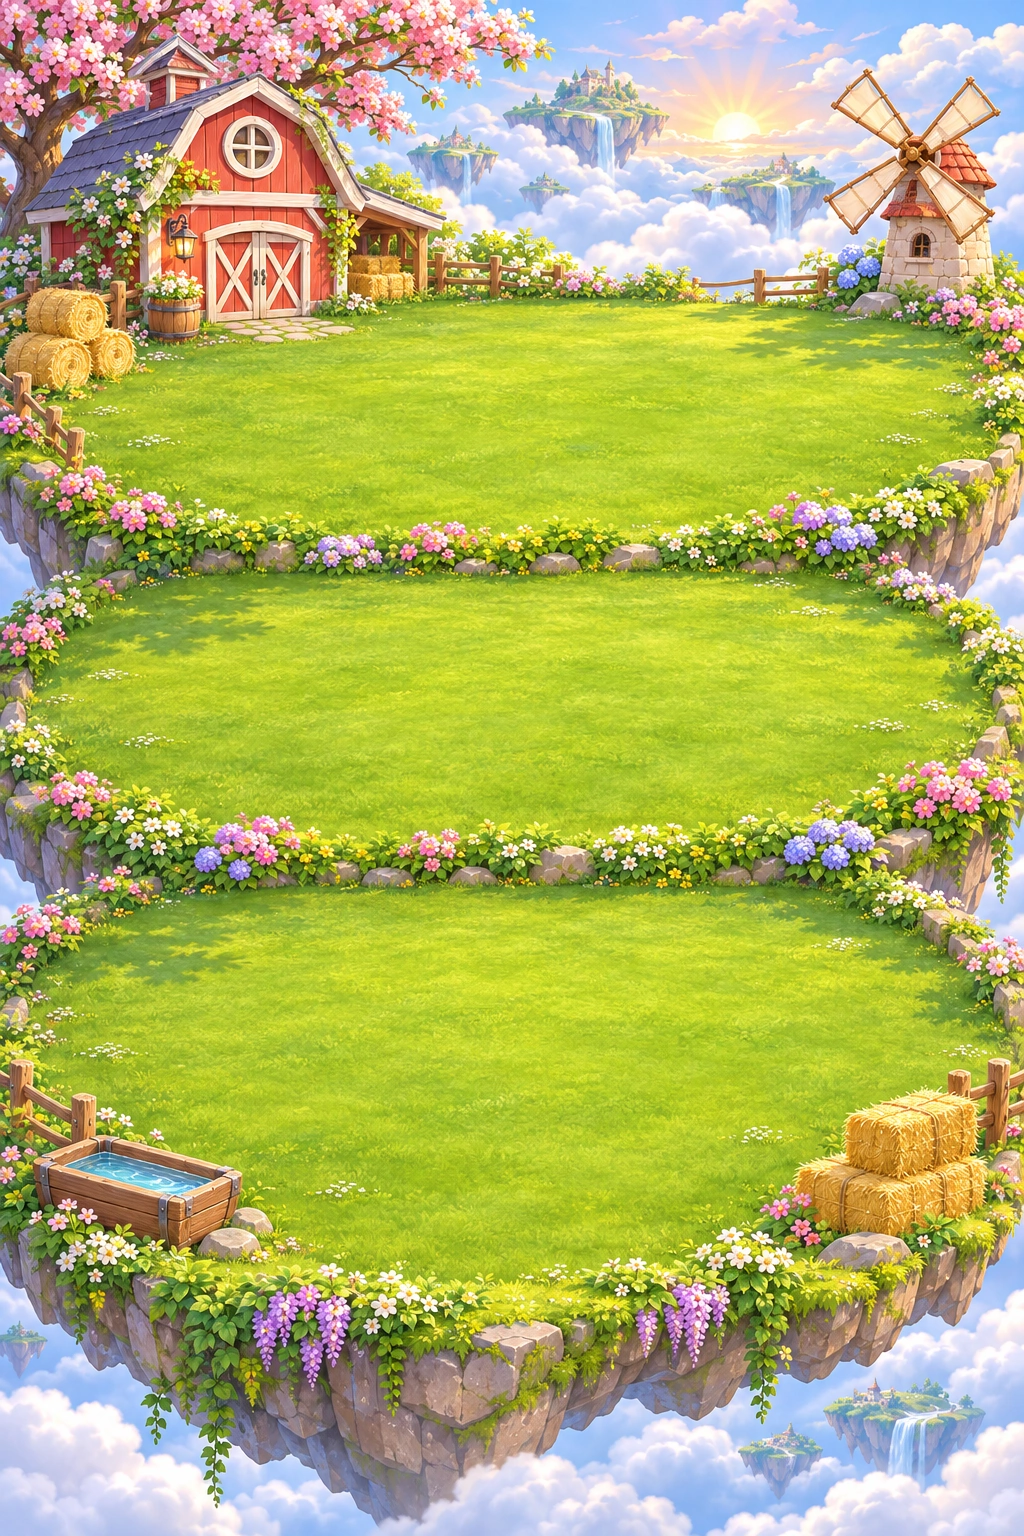
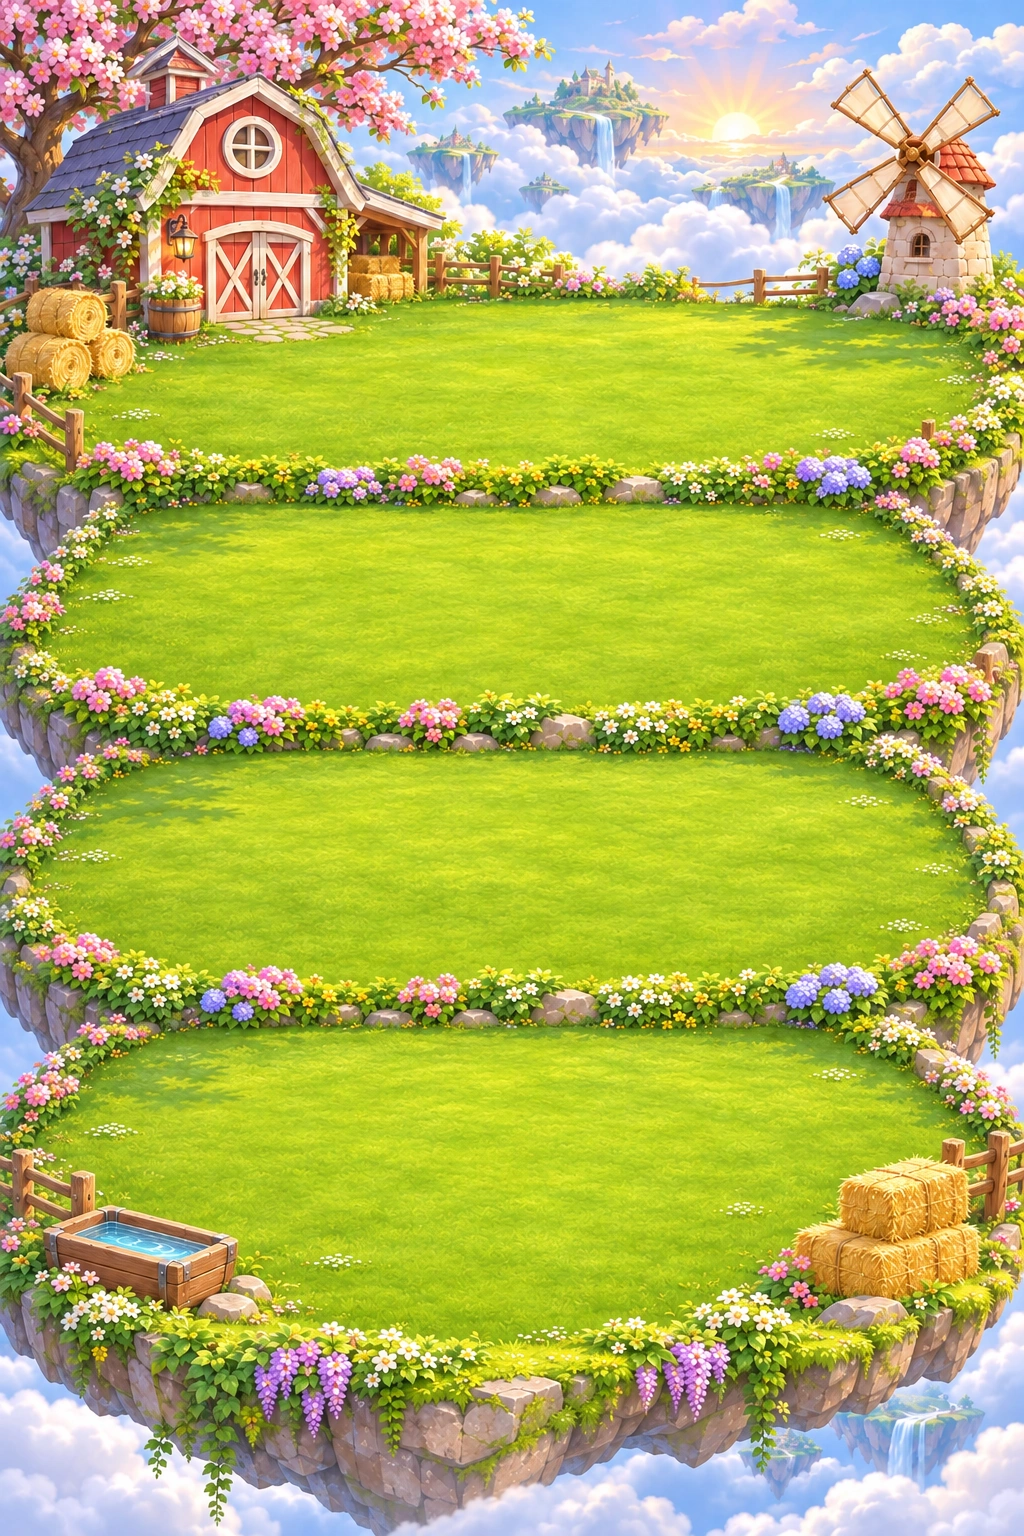
Farm: piglets after the sheep, eating corn, truffle baskets; four-terrace farm picture
Claude-Session: https://claude.ai/code/session_01LAihPK9NCrskSMr2X6nzoy

diff --git a/wings-of-wonder/src/garden.js b/wings-of-wonder/src/garden.js
@@ -18,6 +18,7 @@ const Garden = {
     { id: 'wheat', name: 'Wheat', min: 5, price: 10, give: { feed: { wheat: 3 } }, gexp: 1, lv: 1 },
     { id: 'carrot', name: 'Carrot', min: 20, price: 30, give: { feed: { carrot: 3 } }, gexp: 2, lv: 1 },
     { id: 'potato', name: 'Potato', min: 45, price: 50, give: { feed: { potato: 3 } }, gexp: 3, lv: 2 },
+    { id: 'corn', name: 'Corn', min: 90, price: 80, give: { feed: { corn: 3 } }, gexp: 5, lv: 3 },
     { id: 'sunpetal', name: 'Sunpetal', min: 30, price: 50, give: { gold: 180, xp: 20 }, gexp: 5 },
     { id: 'moonbell', name: 'Moonbell', min: 60, price: 90, give: { gold: 220, xp: 45, stone: 6 }, gexp: 8 },
     { id: 'dewleaf', name: 'Dewleaf', min: 120, price: 140, give: { xp: 80, stone: 15, items: { exp1: 1 } }, gexp: 12 },
@@ -29,7 +30,7 @@ const Garden = {
   ],
   // the shop shows a seed once the garden reaches its level (index 0..7 -> garden level)
   seedLevel: [1, 1, 2, 3, 4, 5, 6, 6],
-  feeds: [{ id: 'wheat', name: 'Wheat', eats: 'hen' }, { id: 'carrot', name: 'Carrot', eats: 'cow' }, { id: 'potato', name: 'Potato', eats: 'sheep' }],
+  feeds: [{ id: 'wheat', name: 'Wheat', eats: 'hen' }, { id: 'carrot', name: 'Carrot', eats: 'cow' }, { id: 'potato', name: 'Potato', eats: 'sheep' }, { id: 'corn', name: 'Corn', eats: 'pig' }],
   levelExp(lv) { return 60 * lv; },
   chests: [{ at: 5, id: 'chest1' }, { at: 15, id: 'chest2' }, { at: 30, id: 'chest2' }, { at: 60, id: 'chest3' }, { at: 100, id: 'chest3' }],
   // Farm (user: "a simple pretty farm where they open in turn: hens 1-6, then cows, then sheep"): animals are bought one
@@ -38,6 +39,7 @@ const Garden = {
     { k: 'hen', eat: 'wheat', name: 'Hen', good: 'Egg basket', min: 60, price: i => 500 * (i + 1), give: { gold: 80, xp: 15 }, gexp: 2 },
     { k: 'cow', eat: 'carrot', name: 'Cow', good: 'Fresh milk', min: 180, price: i => 4000 + 1500 * i, give: { gold: 260, stone: 6, xp: 30 }, gexp: 5 },
     { k: 'sheep', eat: 'potato', name: 'Sheep', good: 'Soft wool', min: 360, price: i => 9000 + 3000 * i, give: { gold: 420, essence: 3, xp: 50 }, gexp: 8 },
+    { k: 'pig', eat: 'corn', name: 'Piglet', good: 'Truffle basket', min: 480, price: i => 16000 + 4000 * i, give: { gold: 650, gem: 2, xp: 70 }, gexp: 12 },
   ],
   perKind: 6,
   nextAnimal(s) { const n = (Garden.state(s).farm || []).length; if (n >= Garden.animals.length * Garden.perKind) return null; const a = Garden.animals[Math.floor(n / Garden.perKind)], i = n % Garden.perKind; return { ...a, i, cost: a.price(i) }; },
@@ -205,11 +207,11 @@ function gdFarm(v, now) {
     const slots = Array.from({ length: Garden.perKind }, (_, i) => {
       const idx = base + i, f = v.farm[idx];
       if (f && Garden.hungry(f)) { const has = v.feed[a.eat] > 0; return `<button class="gd-ani hungry" onclick="gardenFeed(${idx})">${denPlain}<img class="gd-good" src="${gdArt('i-' + a.eat)}" alt=""><img class="gd-beast" src="${gdArt(a.k)}" alt="${a.name}" style="--d:${(idx * .37) % 2}s"><small class="gd-tag ${has ? 'feed' : 'need'}">${has ? 'Feed' : 'Hungry'}</small></button>`; }
-      if (f) { const ok = now >= f.at; return `<button class="gd-ani ${ok ? 'ready' : ''}" onclick="gardenCollect(${idx})">${denPlain}<img class="gd-beast" src="${gdArt(a.k)}" alt="${a.name}" style="--d:${(idx * .37) % 2}s">${ok ? `<img class="gd-good" src="${gdArt(a.k === 'hen' ? 'egg' : a.k === 'cow' ? 'milk' : 'wool')}" alt="">` : `<small class="gd-tag" data-farm="${idx}">${gdClock(f.at - now)}</small>`}</button>`; }
+      if (f) { const ok = now >= f.at; return `<button class="gd-ani ${ok ? 'ready' : ''}" onclick="gardenCollect(${idx})">${denPlain}<img class="gd-beast" src="${gdArt(a.k)}" alt="${a.name}" style="--d:${(idx * .37) % 2}s">${ok ? `<img class="gd-good" src="${gdArt({ hen: 'egg', cow: 'milk', sheep: 'wool', pig: 'truffle' }[a.k])}" alt="">` : `<small class="gd-tag" data-farm="${idx}">${gdClock(f.at - now)}</small>`}</button>`; }
       if (next && idx === v.farm.length) return `<button class="gd-ani buy" onclick="gardenBuyAnimal()">${denPlain}<img class="gd-beast ghost" src="${gdArt(a.k)}" alt=""><small class="gd-tag">+ ${fmt(next.cost)}</small></button>`;
       return `<span class="gd-ani empty"></span>`;
     }).join('');
-    return `<div class="gd-pen ${open ? '' : 'shut'}"><div class="gd-pen-head"><b>${a.k === 'sheep' ? 'Sheep' : a.name + 's'}</b><small>${have.length}/${Garden.perKind} · eats ${a.eat} · ${a.good} every ${a.min >= 60 ? a.min / 60 + ' h' : a.min + ' min'}</small></div><div class="gd-pen-row">${slots}</div>${open ? '' : `<p class="gd-shut">🔒 Opens after 6 ${Garden.animals[ai - 1].name.toLowerCase()}s</p>`}</div>`;
+    return `<div class="gd-pen ${open ? '' : 'shut'}"><div class="gd-pen-head"><b>${a.k === 'sheep' ? 'Sheep' : a.name + 's'}</b><small>${have.length}/${Garden.perKind} · eats ${a.eat} · ${a.good} every ${a.min >= 60 ? a.min / 60 + ' h' : a.min + ' min'}</small></div><div class="gd-pen-row">${slots}</div>${open ? '' : `<p class="gd-shut">🔒 Opens after 6 ${Garden.animals[ai - 1].k === 'sheep' ? 'sheep' : Garden.animals[ai - 1].name.toLowerCase() + 's'}</p>`}</div>`;
   }).join('');
   const barn = `<div class="gd-barn">${Garden.feeds.map(x => `<button class="gd-feedchip" onclick="gardenTab='beds';showGarden()" title="Grow ${x.name} in the Garden">${denPlain}<img src="${gdArt('i-' + x.id)}" alt="">${v.feed[x.id] || 0}</button>`).join('')}</div>`;
   return `${barn}<div class="gd-farm">${pens}${ready ? `<button class="gd-collect" onclick="gardenCollectAll()">${denPlain}Collect all · ${ready}</button>` : ''}</div>`;

diff --git a/wings-of-wonder/src/stage.css b/wings-of-wonder/src/stage.css
@@ -11154,3 +11154,9 @@ html body #stage .city-hud button.city-garden img{position:static!important;widt
 #stage .gd-ani .gd-tag.feed{background:linear-gradient(#a8e08a,#5ab84a);border-color:#fff;color:#fff;text-shadow:0 1px 1px #2a6a1a}
 #stage .gd-ani .gd-tag.need{background:#fff0e8;border-color:#e8a080;color:#c0462a}
 #stage .gd-ani.hungry .gd-good{opacity:.9;animation:gd-bob2 1.6s ease-in-out infinite}
+#stage .gd-farm{grid-template-rows:repeat(4,1fr) auto}
+#stage .gd-beast{height:min(8.6cqh,15cqw)}
+#stage .gd-good{width:min(8cqw,5.4cqh)}
+#stage .gd-good{position:absolute!important;order:0;right:-8%;left:auto;top:auto;bottom:38%;margin:0;width:min(7cqw,4.6cqh);z-index:3}
+#stage .gd-pen-head{z-index:4}
+@media (max-width:700px){#stage .gd-pen-head small{font-size:10px}}

diff --git a/wings-of-wonder/scripts/build-garden-art.py b/wings-of-wonder/scripts/build-garden-art.py
@@ -11,7 +11,7 @@ import numpy as np
 from PIL import Image
 ROOT = Path(__file__).resolve().parents[1]; SRC = ROOT/'scripts/art-source/garden'; OUT = ROOT/'src/assets/generated'
 for b in ('bg', 'farm-bg'): Image.open(SRC/f'{b}.webp').convert('RGB').save(OUT/f'garden-{b}.webp', quality=92, method=6)
-for n in ['plot', 'sprout', 'young', 'sunpetal', 'moonbell', 'dewleaf', 'starberry', 'emberroot', 'lotus', 'wishblossom', 'goldmelon', 'can', 'icon', 'hen', 'cow', 'sheep', 'egg', 'milk', 'wool', 'farm-fence', 'wheat', 'carrot', 'potato', 'i-wheat', 'i-carrot', 'i-potato']:
+for n in ['plot', 'sprout', 'young', 'sunpetal', 'moonbell', 'dewleaf', 'starberry', 'emberroot', 'lotus', 'wishblossom', 'goldmelon', 'can', 'icon', 'hen', 'cow', 'sheep', 'egg', 'milk', 'wool', 'farm-fence', 'wheat', 'carrot', 'potato', 'i-wheat', 'i-carrot', 'i-potato', 'pig', 'truffle', 'corn', 'i-corn']:
     a = np.array(Image.open(SRC/f'{n}.webp').convert('RGBA')); a[a[..., 3] < 16] = 0; im = Image.fromarray(a); im = im.crop(im.getbbox())
     side = 1024 if n == 'farm-fence' else 512 if n == 'plot' else 384; f = side/max(im.size); im = im.resize((round(im.width*f), round(im.height*f)), Image.Resampling.LANCZOS)
     im.save(OUT/f'garden-{n}.webp', quality=95, method=6); print(n, im.size)

diff --git a/CLAUDE.md b/CLAUDE.md
@@ -363,7 +363,10 @@ Claim menu). Optional save field `S.garden {open, plots[6]{seed,at,set,w}, exp, 
   Animals are bought strictly in order (`nextAnimal`, `buyAnimal`): 6 hens (500 ... 3,000 gold), then 6 cows, then 6
   sheep; each brings its goods on its own clock (`animals`: egg basket 1 h, milk 3 h, wool 6 h; `collect`, Collect all
   `collectAll`), the ready good floats over the animal.
-  Feed (user: "carrot, potato ... wheat the simplest and fastest, for hens"): three feed crops at the top of the seed
+  Piglets (user: "what about piglets?"): a fourth pen after the sheep, 6 piglets (16,000+ gold), eat corn (fourth
+  feed crop, 90 min, Garden Lv. 3), bring a truffle basket every 8 h; the farm picture has four terraces now
+  (`farm-bg`, the three-terrace one kept as `farm-bg-v1.webp`). Feed crops grow wheat 5 < carrot 20 < potato 45 < corn 90 min.
+  Feed (user: "carrot, potato ... wheat the simplest and fastest, for hens"): feed crops at the top of the seed
   list (`Garden.feeds`; Wheat 5 min, Carrot 20 min, Potato 45 min, 3 portions each into the barn `S.garden.feed`).
   Hens eat wheat, cows carrots, sheep potatoes (`animals[].eat`). After a collect an animal is hungry (`at` 0) until
   fed one portion (`feed`, tap "Feed", or Collect all feeds automatically); a new animal's first meal is free. Barn
